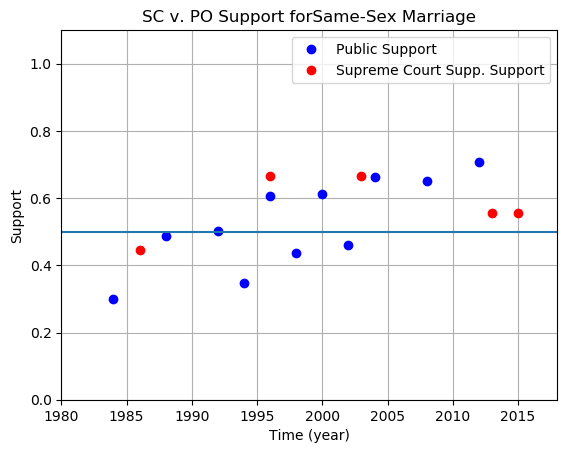
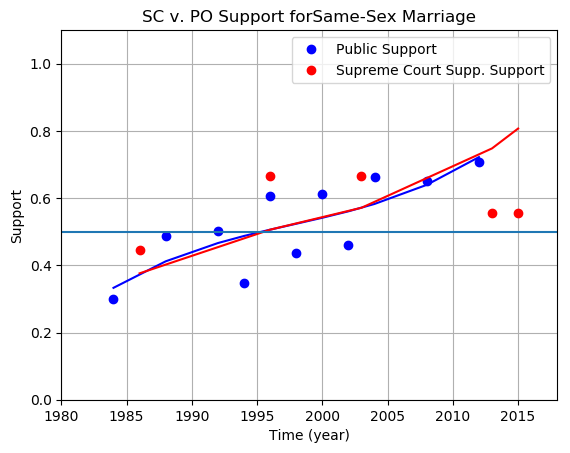
remarkable

diff --git a/plot.py b/plot.py
@@ -1,14 +1,52 @@
 import matplotlib.pyplot as plt
+import scipy.stats as stats
+import numpy as np
+
+#STATS & MODEL
+################################################################################
+
+#PO
+x_po=list(all_po_avg.keys())
+y_po=list(all_po_avg.values())
+
+#get basic stats
+slope, intercept, r_value, p_value, std_err = stats.linregress(x_po,y_po)
+
+#degree 1 model for PO
+po_deg1=np.polyfit(x_po,y_po,1)
+f1 = np.poly1d(po_deg1)
+#degree 3 model for PO
+po_deg3=np.polyfit(x_po,y_po,3)
+f3 = np.poly1d(po_deg3)
+
+#SC
+x_sc=list(sc_support.keys())
+y_sc=list(sc_support.values())
+
+#get basic stats
+slope, intercept, r_value, p_value, std_err = stats.linregress(x_sc,y_sc)
+
+#degree 1 model for SC
+sc_deg1=np.polyfit(x_sc,y_sc,1)
+g1 = np.poly1d(po_deg1)
+#degree 3 model for SC
+sc_deg3=np.polyfit(x_sc,y_sc,3)
+g3 = np.poly1d(po_deg3)
 
 #SUPREME COURT SUPPORT v. PUBLIC SUPPORT
 ################################################################################
 
-#public support for gay issues on average
+#average public opinion on issue
 plt.plot(all_po_avg.keys(),all_po_avg.values(),'bo',label='Public Support')
+#model for PO data
+plt.plot(x_po,f3(x_po),'-b')
 
 #supreme court decisions
 plt.plot(sc_support.keys(),sc_support.values(),'ro',label='Supreme Court Supp. Support')
+#model for SC data
+plt.plot(x_sc,g3(x_sc),'-r')
 
+#include horizontal neutral opinion line
 plt.axhline(y=.5)
 
 plt.legend()
